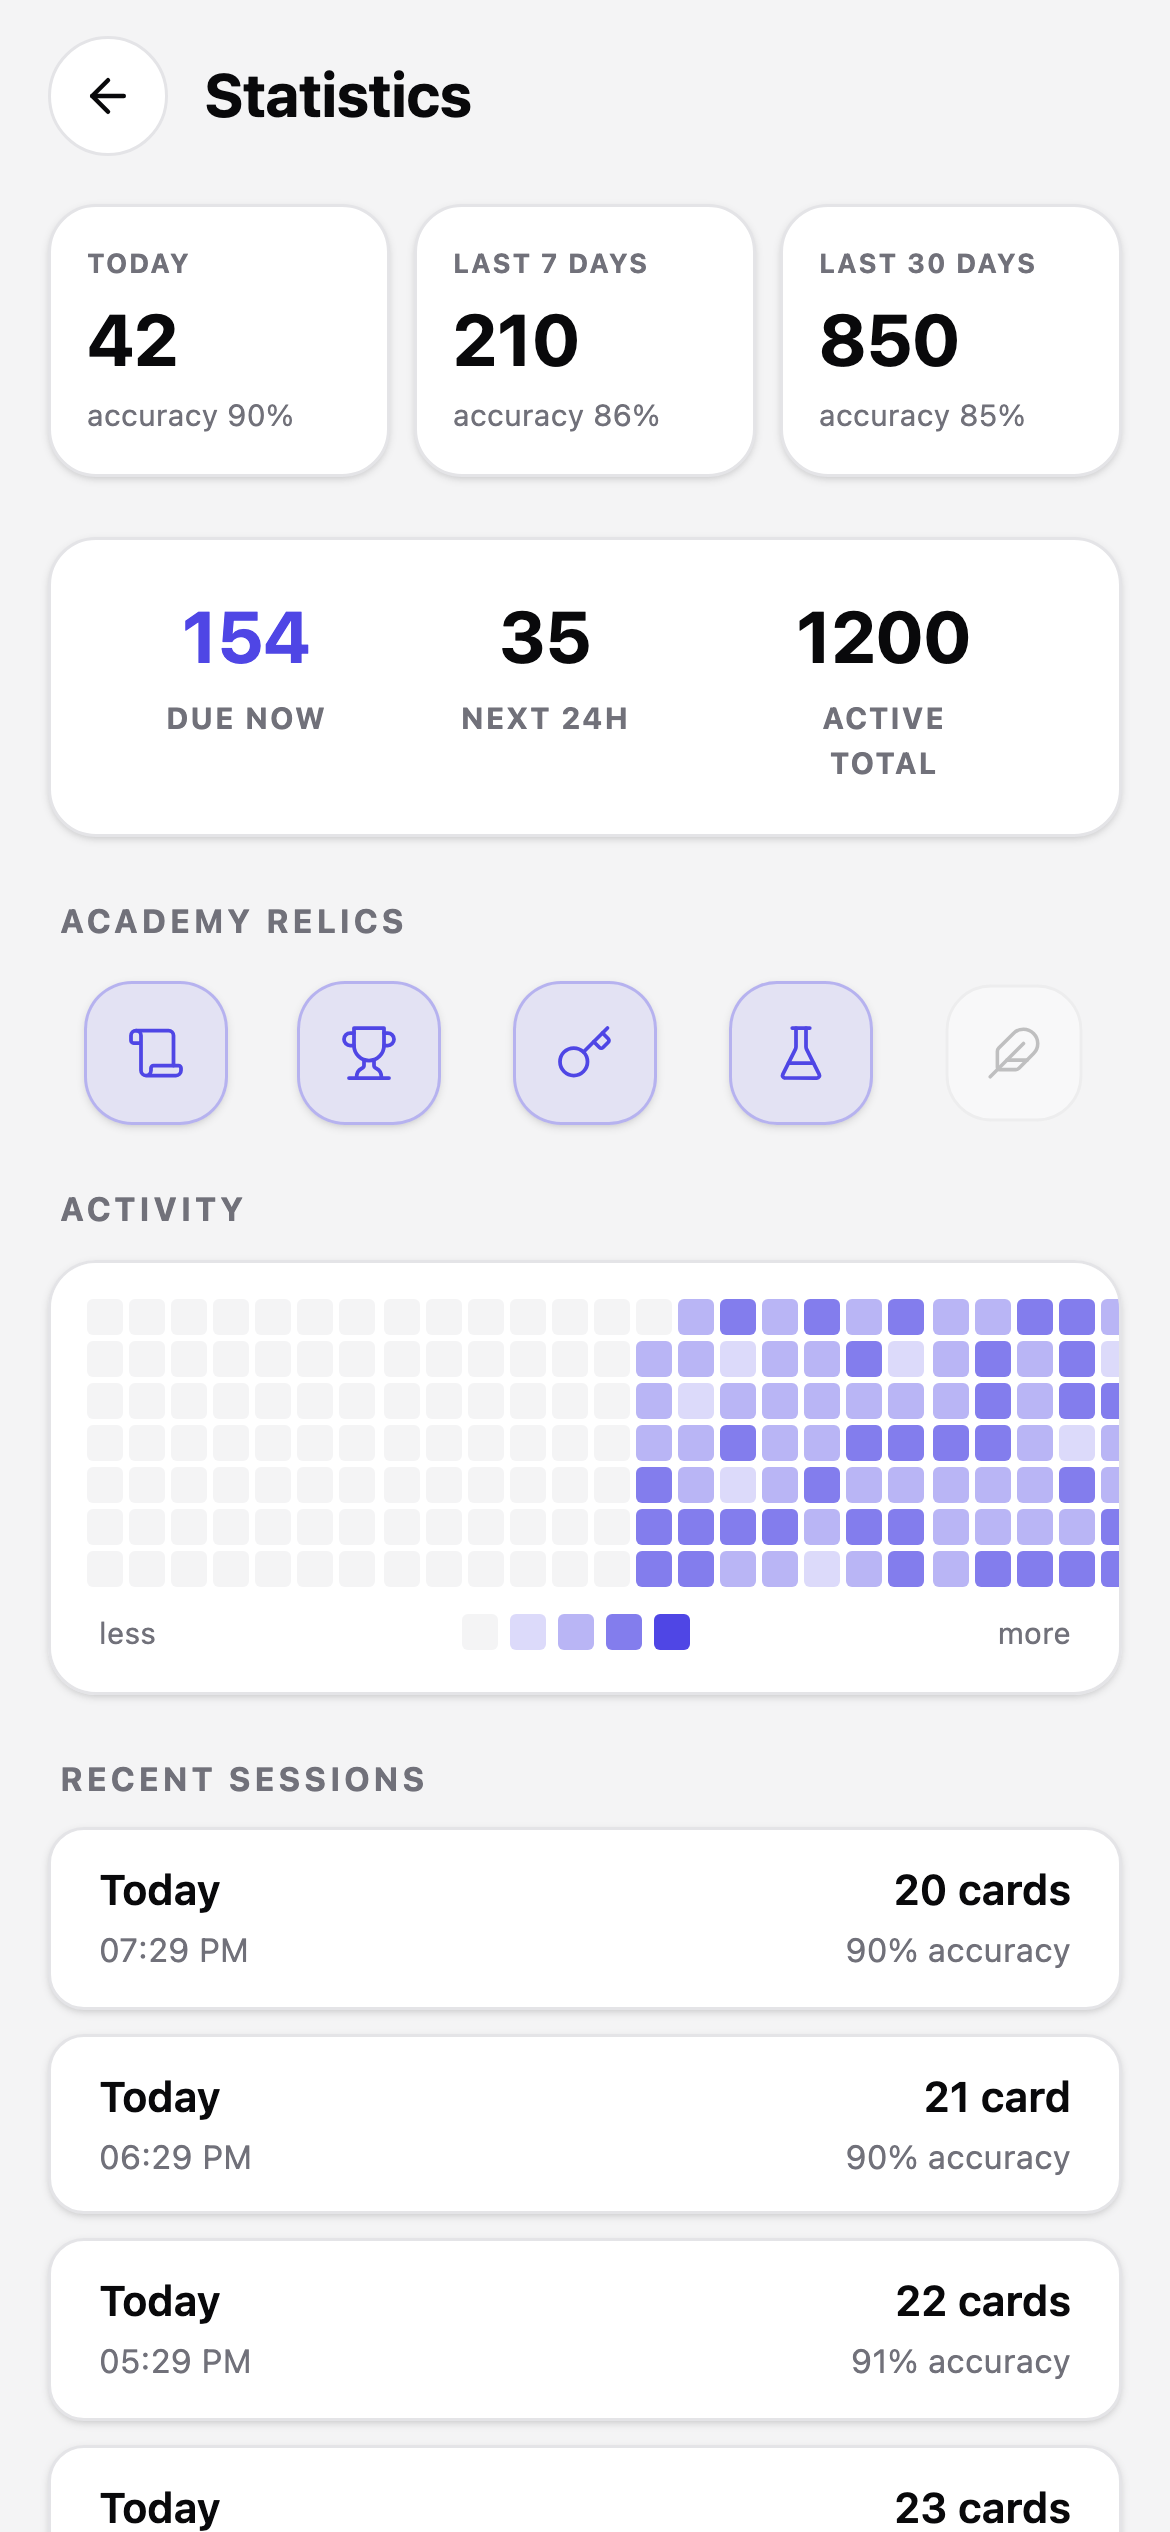
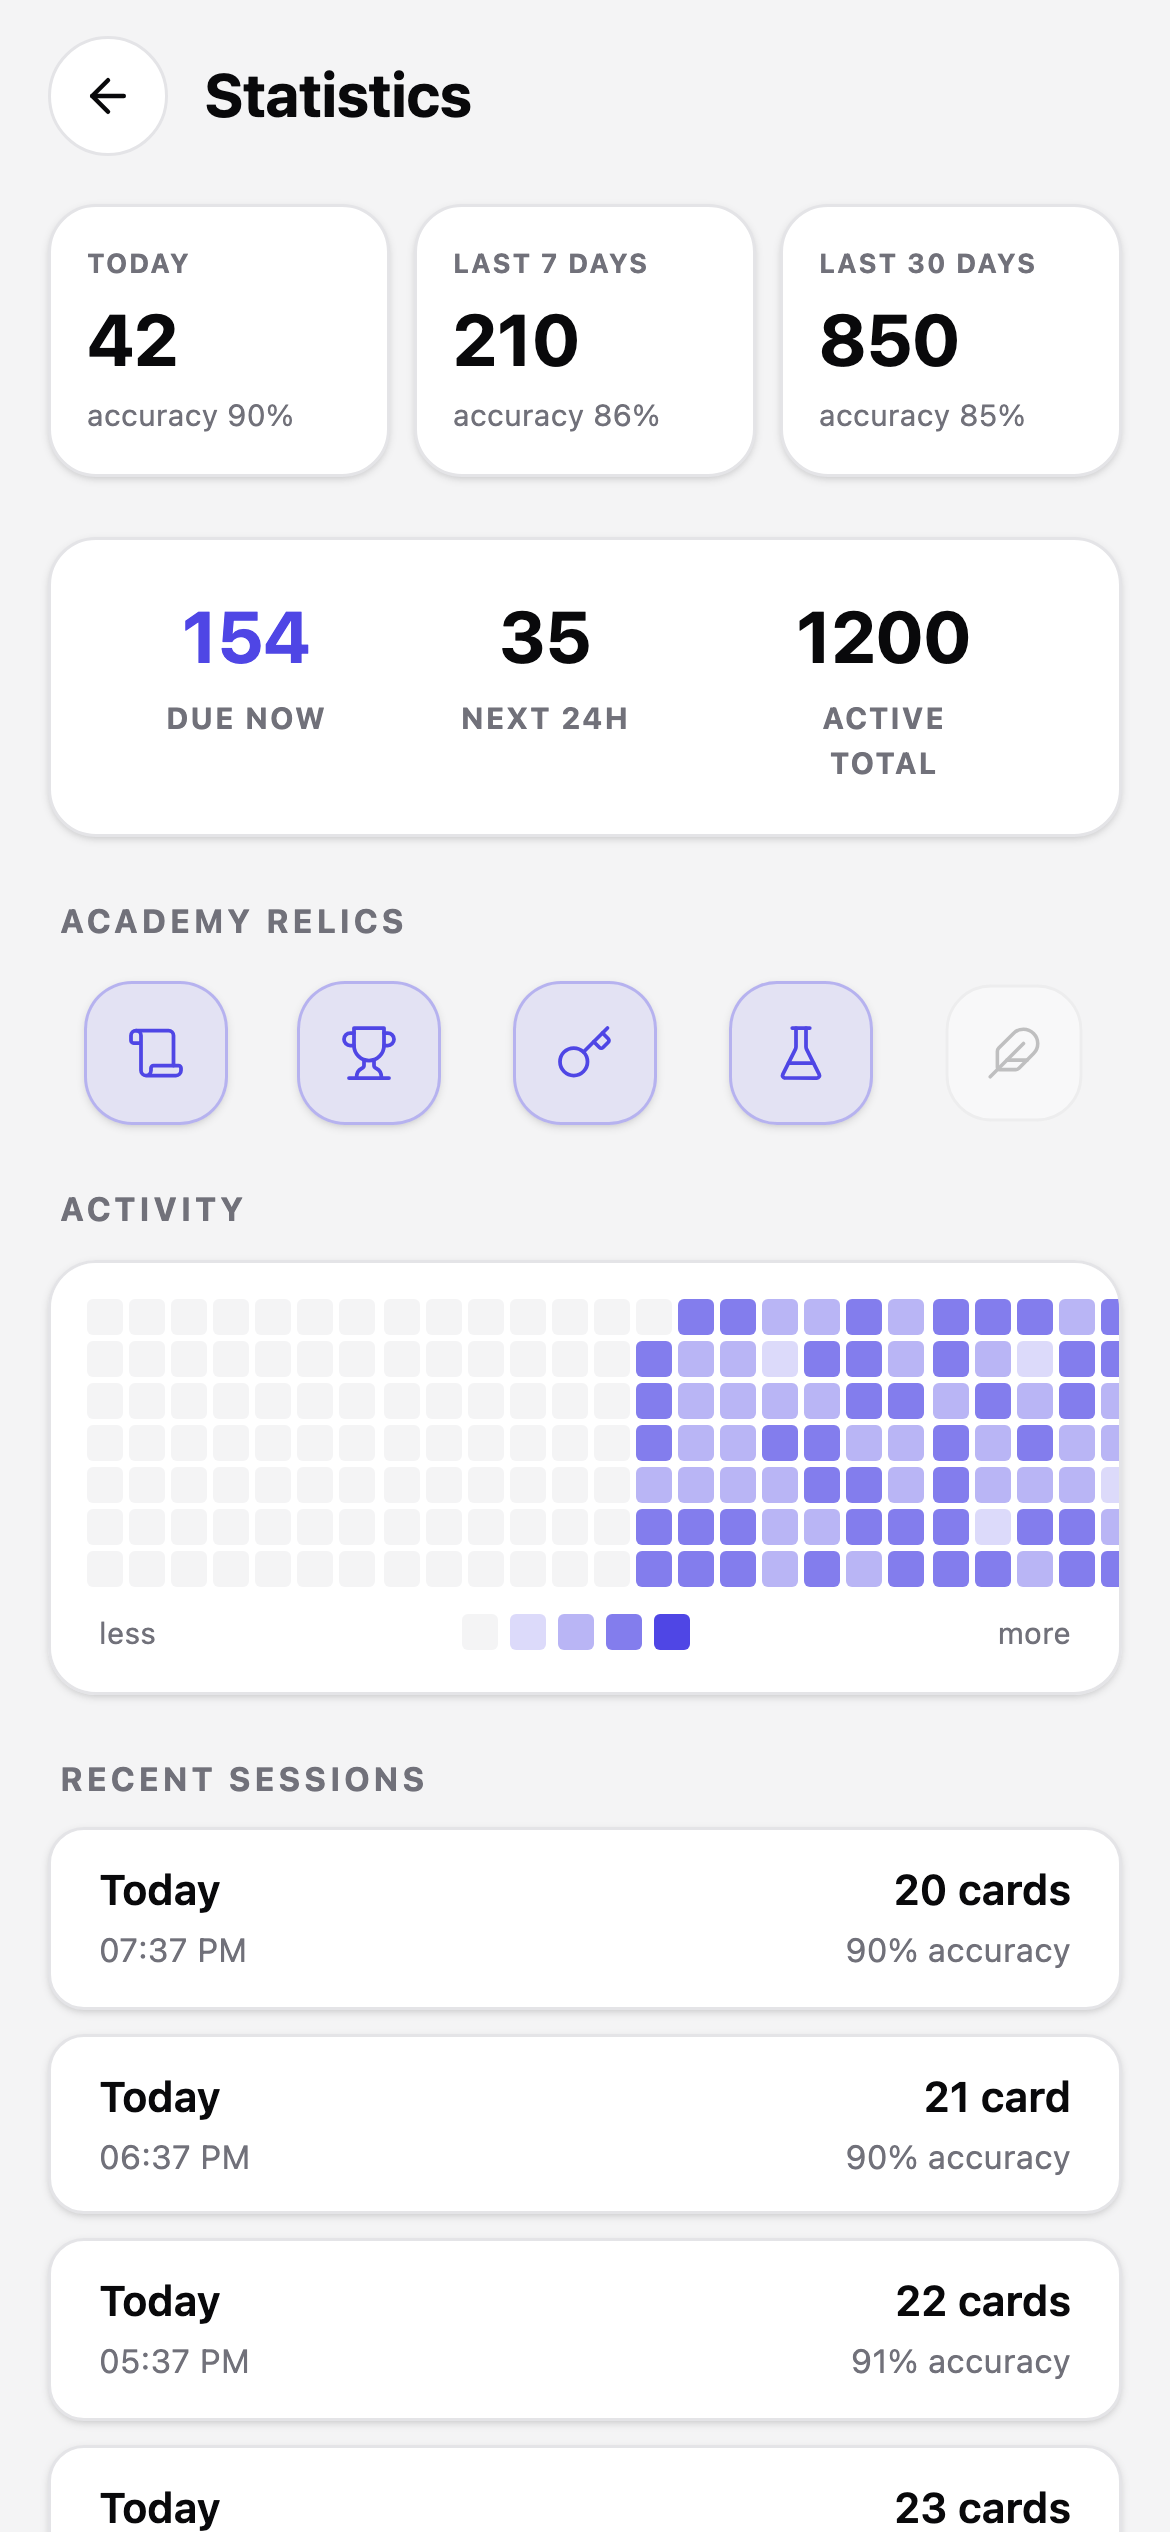
style: fix confusing settings wording and update docs assets

diff --git a/apps/mini-app/src/lib/i18n/locales/ru.ts b/apps/mini-app/src/lib/i18n/locales/ru.ts
@@ -191,8 +191,8 @@ export const ru = {
   'settings.test_haptics': 'Проверить вибрацию',
   'settings.autoplay_label': 'Авто-произношение',
   'settings.autoplay_hint': 'Озвучивать при показе',
-  'settings.produce_label': 'Продукция (родной → {lang})',
-  'settings.produce_hint': 'Вспоминаешь слово на изучаемом языке',
+  'settings.produce_label': 'Перевод (RU → {lang})',
+  'settings.produce_hint': 'Активное вспоминание на изучаемом языке',
   'settings.ai_label': 'AI-проверка',
   'settings.ai_hint': 'Проверить смыслом',
   'settings.replay_label': 'Повтор провалов',

diff --git a/apps/mini-app/src/lib/i18n/locales/en.ts b/apps/mini-app/src/lib/i18n/locales/en.ts
@@ -180,8 +180,8 @@ export const en: Record<keyof typeof ru, string> = {
   'settings.test_haptics': 'Test vibration',
   'settings.autoplay_label': 'Auto-pronounce',
   'settings.autoplay_hint': 'Speak the word on reveal',
-  'settings.produce_label': 'Production (native → {lang})',
-  'settings.produce_hint': 'Recall the foreign-language form',
+  'settings.produce_label': 'Direction (Native → {lang})',
+  'settings.produce_hint': 'Active recall of the target language',
   'settings.ai_label': 'AI grading',
   'settings.ai_hint': 'Semantic check button on miss',
   'settings.replay_label': 'Replay failed',
